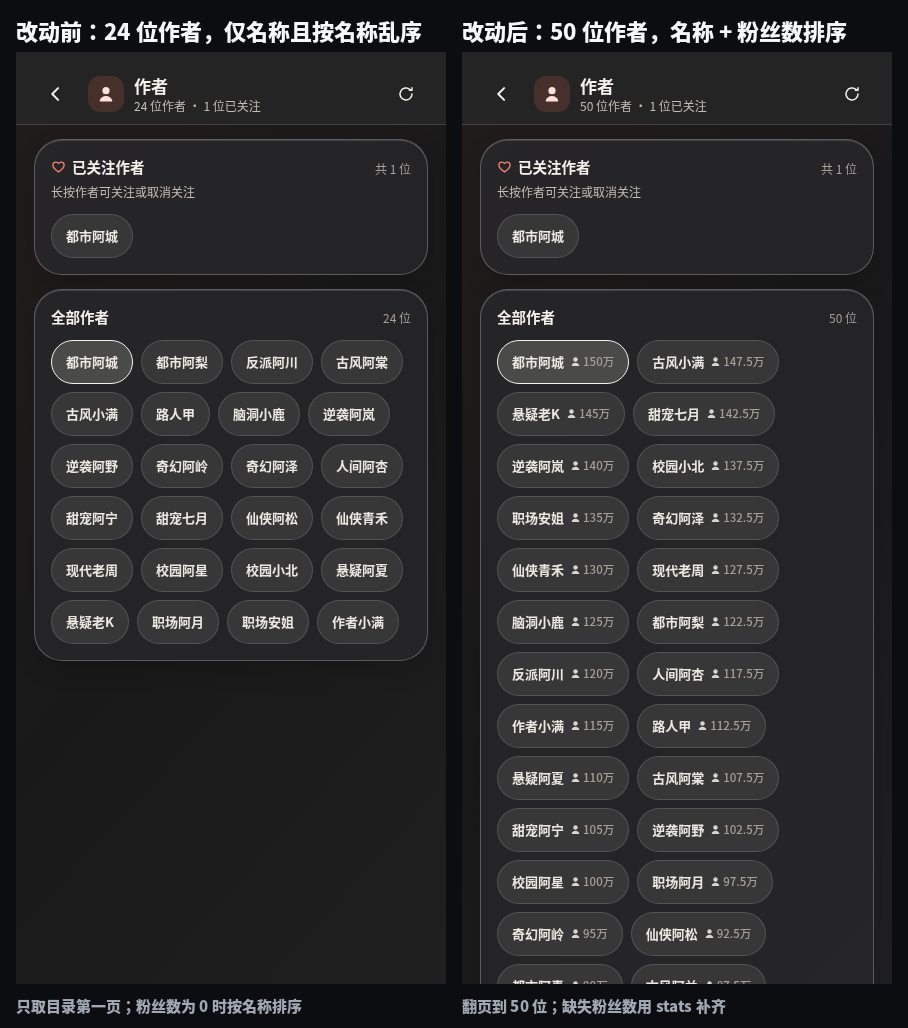
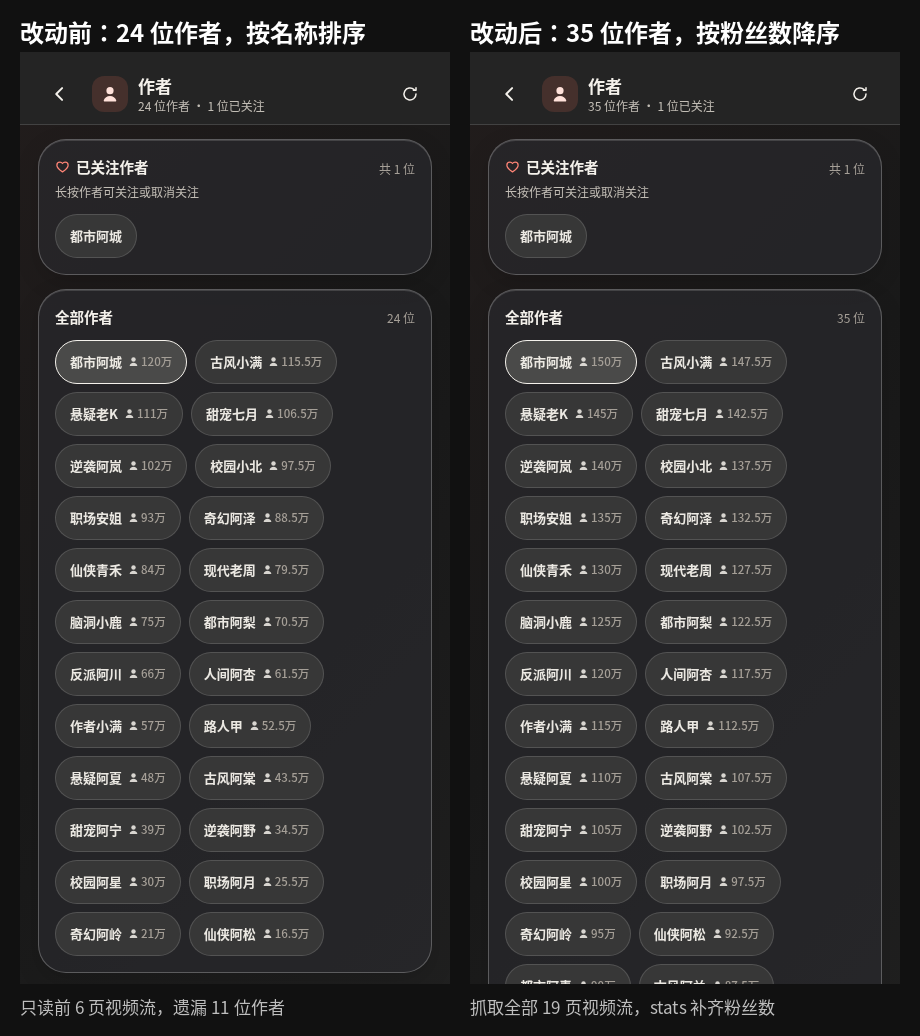
fix(authors): crawl the complete video feed for all authors

diff --git a/src/features/authors/authorDirectory.ts b/src/features/authors/authorDirectory.ts
@@ -13,11 +13,8 @@ export type AuthorDirectory = { items: AuthorItem[]; total: number };
 export const MAX_FOLLOWED_AUTHORS = 24;
 
 const STORAGE_KEY = "hghubx_authors_cache_v1";
-const DIRECTORY_PAGE_SIZE = 100;
-const DIRECTORY_MIN_AUTHORS = 50;
-const MAX_DIRECTORY_PAGES = 20;
-const FALLBACK_PAGES = 6;
-const FALLBACK_PAGE_SIZE = 50;
+const FEED_PAGE_SIZE = 100;
+const MAX_FEED_PAGES = 60;
 const FOLLOWER_LOOKUP_LIMIT = 100;
 const FOLLOWER_LOOKUP_CONCURRENCY = 6;
 
@@ -100,35 +97,24 @@ const pageNumber = (value: unknown): number => {
 
 const pageCount = (pagination: Record<string, unknown> | null): number =>
   pageNumber(pagination?.pages ?? pagination?.total_pages ?? pagination?.page_count ?? pagination?.last_page);
-const pageTotal = (pagination: Record<string, unknown> | null, response: Record<string, unknown>): number =>
-  pageNumber(pagination?.total ?? response.total ?? response.count ?? response.total_count);
 
-async function fromUserDirectory(): Promise<AuthorDirectory> {
-  const result = new Map<number, AuthorItem>();
-  let declaredTotal = 0;
-  for (let page = 1; page <= MAX_DIRECTORY_PAGES && result.size < DIRECTORY_MIN_AUTHORS; page += 1) {
-    const value = asRecord(await api.popularAuthors(page, DIRECTORY_PAGE_SIZE));
-    const rawItems = Array.isArray(value?.items) ? value.items : Array.isArray(value?.data) ? value.data : [];
-    const pagination = asRecord(value?.pagination) ?? asRecord(value?.meta);
-    const before = result.size;
-    const items = rawItems.map(asAuthor).filter((item): item is AuthorItem => !!item);
-    merge(result, items);
-    declaredTotal = Math.max(declaredTotal, pageTotal(pagination, value ?? {}));
-    const pages = pageCount(pagination);
-    if (!items.length || (pages && page >= pages) || (page > 1 && result.size === before)) break;
-  }
-  return { items: [...result.values()], total: Math.max(declaredTotal, result.size) };
-}
-
+/**
+ * The public API has no author collection route; build the directory from the
+ * full video feed. The feed exposes at most 100 cards per page and its
+ * pagination is authoritative, so walk it to the last page instead of stopping
+ * after a fixed number of pages.
+ */
 async function fromVideoFeed(): Promise<AuthorItem[]> {
   const result = new Map<number, AuthorItem>();
-  for (let page = 1; page <= FALLBACK_PAGES; page += 1) {
-    const response = await api.feed(page, FALLBACK_PAGE_SIZE);
+  for (let page = 1; page <= MAX_FEED_PAGES; page += 1) {
+    const response = await api.feed(page, FEED_PAGE_SIZE);
     const cards = Array.isArray(response?.items) ? response.items : [];
-    const authors = (cards as VideoCard[])
+    if (!cards.length) break;
+    merge(result, (cards as VideoCard[])
       .map(card => asAuthor(card.author))
-      .filter((item): item is AuthorItem => !!item);
-    merge(result, authors);
+      .filter((item): item is AuthorItem => !!item));
+    const pages = pageCount(asRecord(response?.pagination) ?? asRecord((response as unknown as Record<string, unknown>).meta));
+    if (pages && page >= pages) break;
   }
   return [...result.values()];
 }
@@ -184,18 +170,10 @@ export function subscribeAuthors(listener: (directory: AuthorDirectory) => void)
 }
 
 async function load(epoch: number): Promise<AuthorDirectory> {
-  const found = new Map<number, AuthorItem>();
-  try {
-    const directory = await fromUserDirectory();
-    merge(found, directory.items);
-  } catch { /* Fall back to the public feed when the directory route is unavailable. */ }
-  if (found.size < DIRECTORY_MIN_AUTHORS) {
-    try { merge(found, await fromVideoFeed()); } catch { /* Keep whatever the directory returned. */ }
-  }
-  if (!found.size) throw new Error("作者目录加载失败，请重试");
-  const enriched = await enrichFollowers([...found.values()]);
-  const items = sortAuthors(enriched).slice(0, DIRECTORY_MIN_AUTHORS);
-  const directory = { items, total: items.length };
+  const items = await fromVideoFeed();
+  if (!items.length) throw new Error("作者目录加载失败，请重试");
+  const enriched = sortAuthors(await enrichFollowers(items));
+  const directory = { items: enriched, total: enriched.length };
   writeStored(epoch, directory);
   publish(directory);
   return directory;
